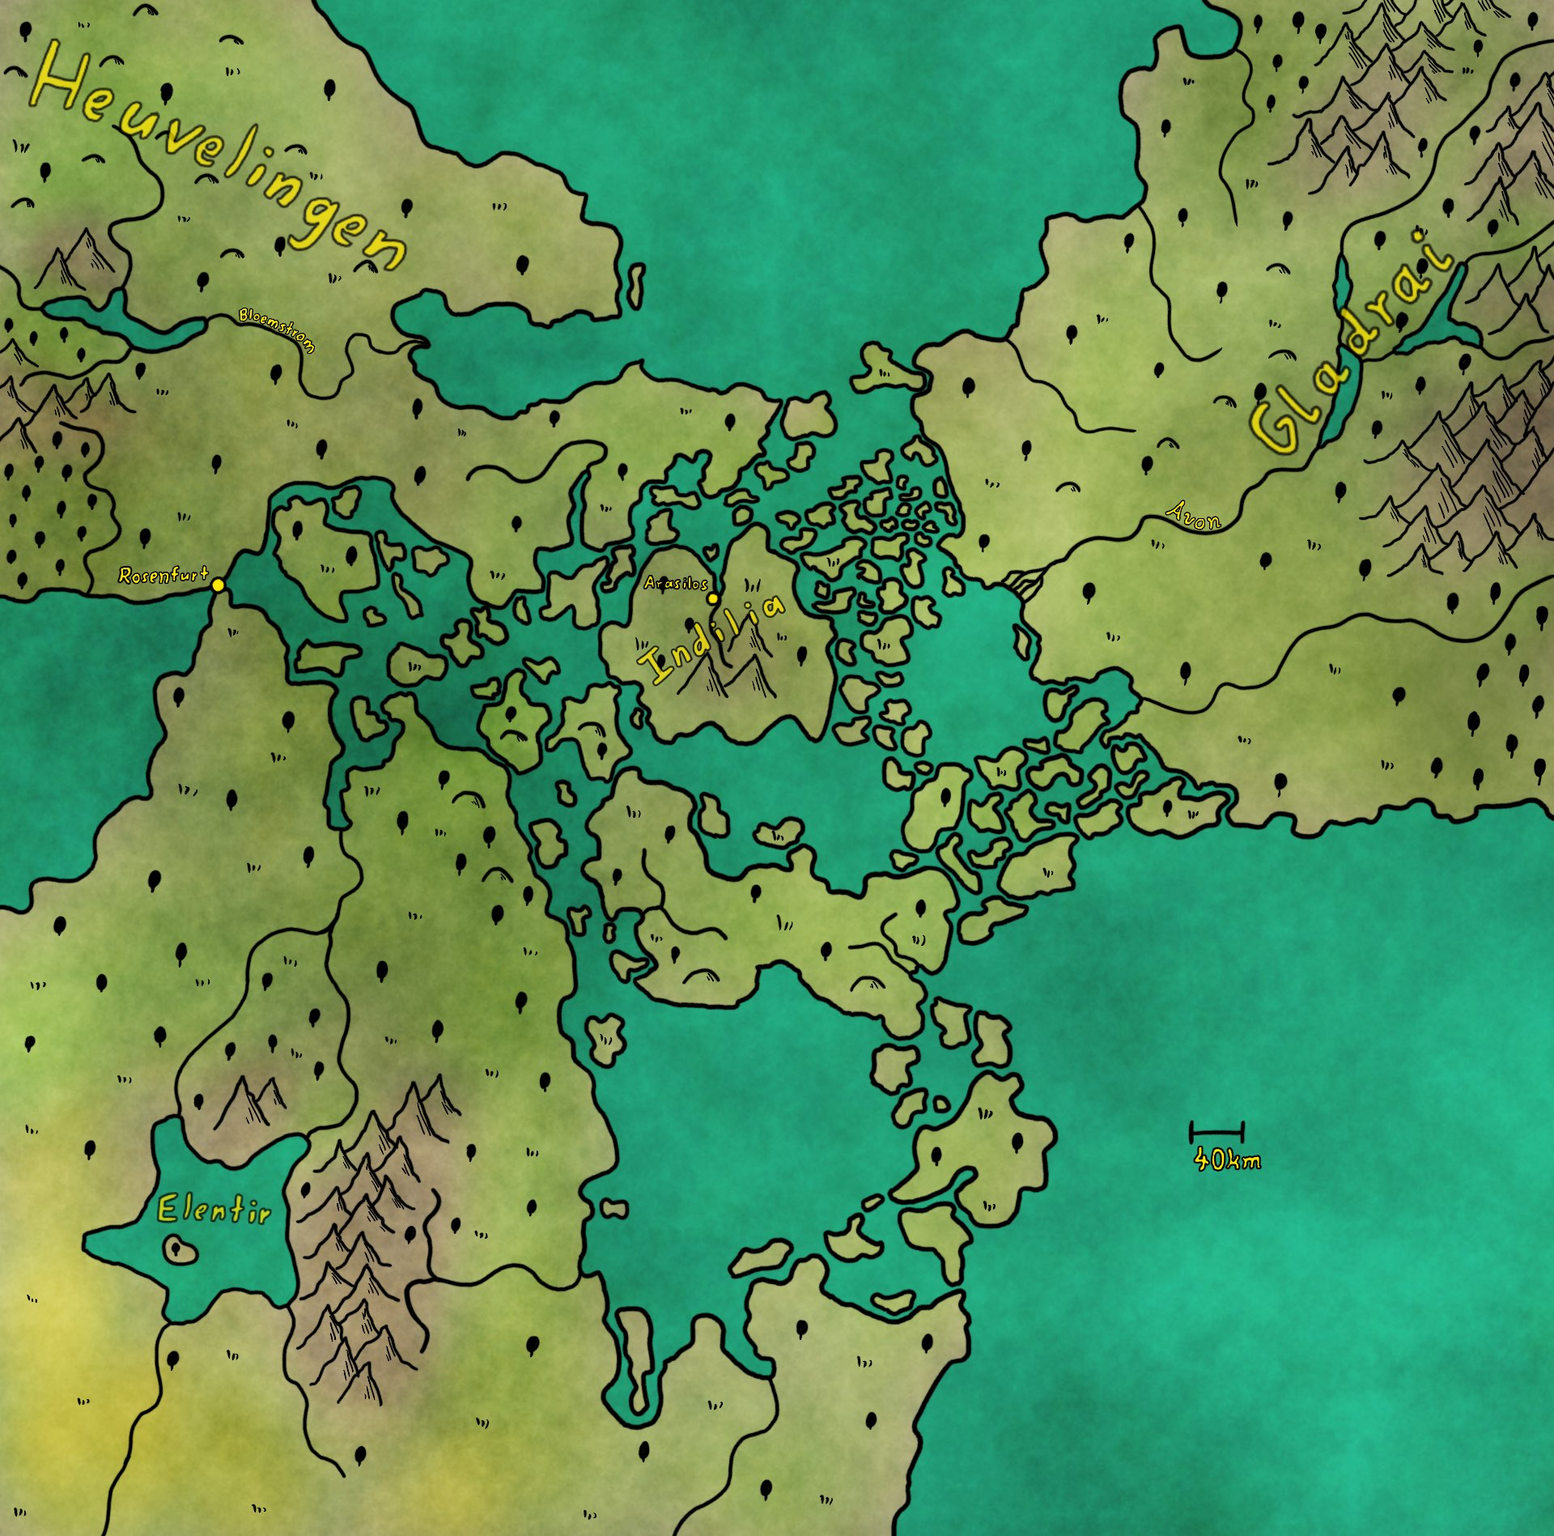
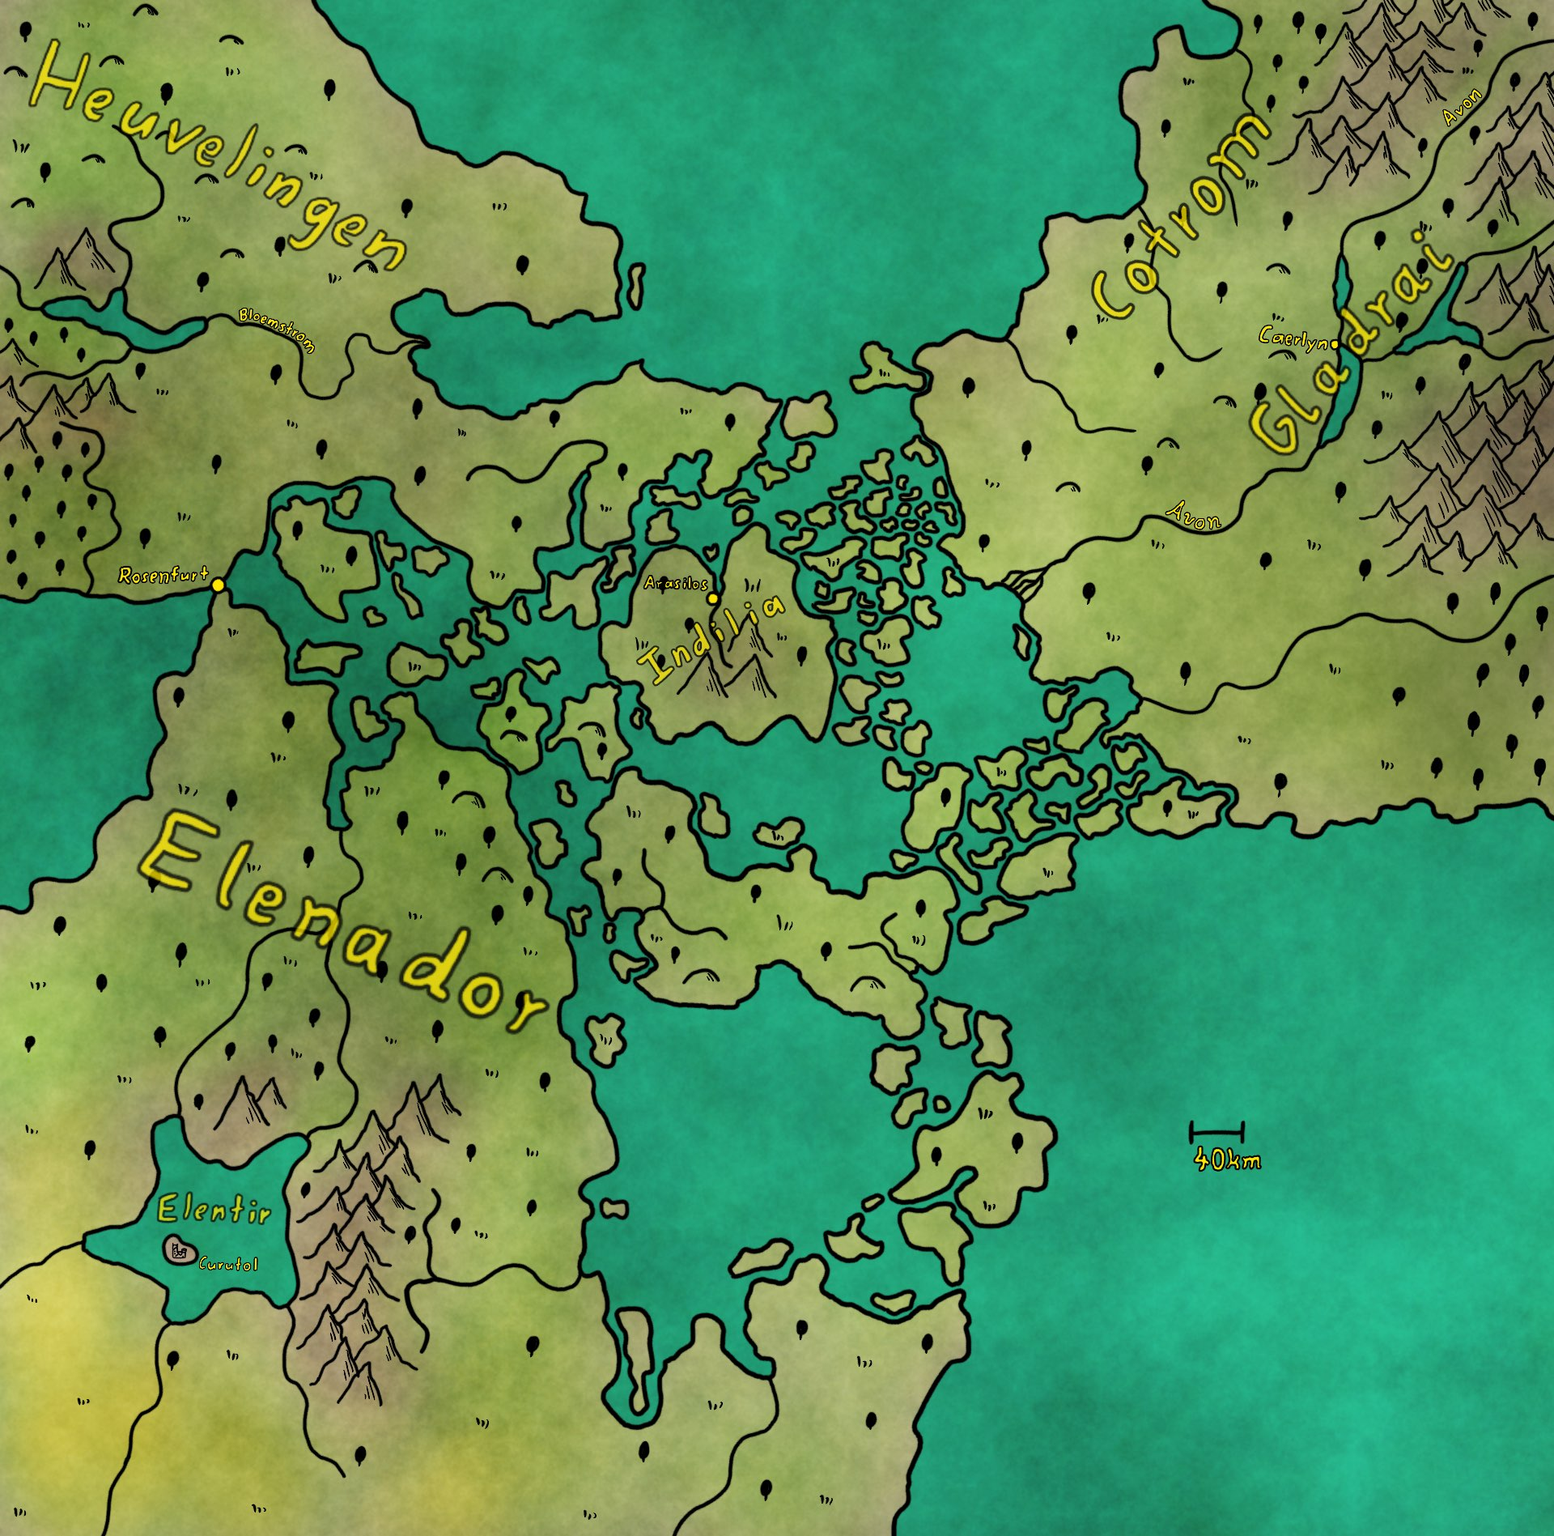
Update map and refactor homerules

diff --git a/dnd/homerules/index.html b/dnd/homerules/index.html
@@ -13,7 +13,7 @@
       
       
       
-      <link rel="icon" href="../assets/images/favicon.png">
+      <link rel="icon" href="../assets/favicon.png">
       <meta name="generator" content="mkdocs-1.6.0, mkdocs-material-9.5.26">
     
     
@@ -595,10 +595,10 @@
 <li>Tabaxi</li>
 <li>Tortle</li>
 </ul>
-<p>Diese Liste ist bei weitem nicht vollständig und soll mit der Zeit wachsen. "Mark of ..."-subraces dürfen nicht gewählt werden, da diese aus einem besonderen Modul stammen und deutlich stärker als andere subraces sind.</p>
-<p>Nicht auf dieser Liste aufgezählte races können eventuell nach Absprache gespielt werden, einfach fragen :)</p>
+<p>"Mark of ..."-subraces dürfen nicht gewählt werden, da diese aus einem besonderen Modul stammen und deutlich stärker als andere subraces sind.</p>
+<p>Diese Liste ist bei weitem nicht vollständig und soll mit der Zeit wachsen. Nicht auf dieser Liste aufgezählte races können eventuell nach Absprache gespielt werden, einfach fragen :)</p>
 <h3 id="charakterherkunft">Charakterherkunft</h3>
-<p>Auf den Seiten zu einzelnen Regionen steht häufig, welche races dort hauptsächlich angesiedelt sind. Das heißt allerdings nicht, dass andere races dort nicht auch existieren würden. Besonders in den größeren Städten kommt es zu viel Durchmischung. Ein Tabaxi in Gladrai ist vielleicht ungewöhnlich, kommt aber definitiv vor. Lasst euch also nicht in der Herkunft eures Charakters einschränken, aber macht euch trotzdem darüber Gedanken, wenn euer Charakter aus einer für ihn untypischen Region kommt. </p>
+<p>Auf den Seiten zu einzelnen Regionen steht häufig, welche races dort hauptsächlich angesiedelt sind. Das heißt allerdings nicht, dass andere races dort nicht auch existieren würden. Besonders in den größeren Städten kommt es zu viel Durchmischung. Lasst euch also nicht in der Herkunft eures Charakters einschränken, aber macht euch trotzdem darüber Gedanken, wenn euer Charakter aus einer für ihn untypischen Region kommt.</p>
 <h3 id="ability-scores-improvements">Ability scores improvements</h3>
 <p>Anstatt die von der race vorgegebenen ability score improvements zu verwenden, dürfen (a) +2, +1 oder (b) +1, +1, +1 auf verschiedene ability scores verteilt werden. Dabei gibt es folgende Ausnahmen:</p>
 <ul>
@@ -618,7 +618,7 @@
 <li>Sigil and the Outlands</li>
 </ul>
 <p>Diese sind meist an bestimmte vorgefertigte Abenteuer angepasst und passen schlecht in andere Settings.</p>
-<p>Backgrounds dürfen relativ flexibel angepasst werden, falls sie damit besser zum Charakter passen. Falls keiner der vorgefertigten backgrounds zum Charakter passt, kann in Absprache auch gerne ein custom background erstellt werden.</p>
+<p>Backgrounds dürfen relativ flexibel angepasst werden, falls sie damit besser zum Charakter passen. Falls keiner der vorgefertigten backgrounds zum Charakter passt, kann in Absprache gerne auch ein custom background erstellt werden.</p>
 <h3 id="feats">Feats</h3>
 <p>Feats aus folgenden Modulen dürfen <strong>nicht</strong> gewählt werden:</p>
 <ul>
@@ -629,7 +629,7 @@
 <li>Strixhaven: A Curriculum of Chaos</li>
 <li>Sigil and the Outlands</li>
 </ul>
-<p>Zusätzlich darf jeder Charakter bei der Charaktererstellung einen feat wählen, der keine Kampfvorteile gibt (ability score improvements zählen dafür nicht).</p>
+<p>Zusätzlich darf jeder Charakter bei der Charaktererstellung einen zusätzlichen feat wählen, der keine direkten Kampfvorteile gibt (ability score improvements zählen nicht als Kampfvorteil).</p>
 <h3 id="spells">Spells</h3>
 <p>Spells aus folgenden Modulen dürfen <strong>nicht</strong> gewählt werden:</p>
 <ul>
@@ -641,27 +641,33 @@
 <h2 id="zusatzliche-regeln">Zusätzliche Regeln</h2>
 <h4 id="flanking">Flanking</h4>
 <p>Statt advantage gibt flanking einen 1d4-Bonus auf den attack roll.</p>
-<p><em>Im Gegensatz zu den meisten anderen Möglichkeiten, advantage zu erhalten, welche oft mit gewissen Kosten verbunden sind (z.B spell slots, action economy, ...) ist flanking recht einfach, was den Wert einiger spells und class features reduziert.</em></p>
+<p class="comment"> Im Gegensatz zu den meisten anderen Möglichkeiten, advantage zu erhalten, welche oft mit gewissen Kosten verbunden sind (z.B spell slots, action economy, ...) ist flanking recht einfach, was den Wert einiger spells und class features reduziert. </p>
+
 <h4 id="falling-unconscious">Falling unconscious</h4>
 <p>Wenn ein Charakter auf 0 HP fällt, erhält er nach dem Kampf eine Stufe exhaustion (max. 1 pro Kampf). Allerdings werden failed death saving throws erst nach einer short rest zurückgesetzt.</p>
-<p><em>Damit wird auf 0 HP fallen mit gewissen Kosten und Risiko verbunden, es entstehen aber keine Szenarios, in denen es taktisch klüger ist, einen Verbündeten liegen zu lassen.</em></p>
+<p class="comment"> Damit wird auf 0 HP fallen mit gewissen Kosten und Risiko verbunden, es entstehen aber keine Szenarios, in denen es taktisch klüger ist, einen Verbündeten liegen zu lassen. </p>
+
 <h4 id="hp-on-levelup">HP on levelup</h4>
 <p>Bei levelups werden hit dice mit advantage gewürfelt.</p>
-<p><em>Das soll dafür sorgen, dass levelups häufiger zu brauchbaren HP-Steigerungen führen, ohne den Zufall komplett zu eleminieren.</em></p>
+<p class="comment"> Das soll dafür sorgen, dass levelups häufiger zu brauchbaren HP-Steigerungen führen, ohne den Zufall komplett zu eleminieren. </p>
+
 <h4 id="duplicate-proficiencies">Duplicate proficiencies</h4>
 <p>Wenn ein Charakter eine skill (oder tool) proficiency erhält, die er bereits besitzt, darf stattdessen eine andere skill (oder tool) proficiency gewählt werden. Die gleiche Regel gilt auch für expertise.</p>
-<p><em>Manche (sub)classes erhalten proficiencies als (sub)class feature. Da dies oft definierende Eigenschaften eines Charakters sind, macht es eigentlich oft Sinn, diese proficiencies bereits auf Level 1 zu wählen, was allerdings oft unklug wäre, da so eine proficiency "verschwendet" werden würde.</em></p>
+<p class="comment"> Manche (sub)classes erhalten proficiencies als (sub)class feature. Da dies oft definierende Eigenschaften eines Charakters sind, macht es eigentlich oft Sinn, diese proficiencies bereits auf Level 1 zu wählen, was allerdings oft unklug wäre, da so eine proficiency "verschwendet" werden würde. </p>
+
 <h4 id="duplicate-spells">Duplicate spells</h4>
 <p>Wenn ein Charakter per levelup Zugriff auf einen spell erhält, den er bereits von seiner class spell list gelernt hat, darf er einen neuen spell der gleichen spell list wählen.</p>
-<p><em>Ohne diese Regel würde z.B. ein necromancer wizard sich dagegen entscheiden, animate dead zu lernen, obwohl das so ziemlich der signature spell dieser spell class ist, da er den spell auf Level 6 umsonst erhält.</em></p>
+<p class="comment"> Ohne diese Regel würde z.B. ein necromancer wizard sich dagegen entscheiden, animate dead zu lernen, obwohl das so ziemlich der signature spell dieser spell class ist, da er den spell auf Level 6 umsonst erhält. </p>
+
 <h4 id="es-wird-auf-dem-tisch-gewurfelt">Es wird auf dem Tisch gewürfelt</h4>
 <p>Wenn ein Würfel beim würfeln vom Tisch fällt, wird er automatisch als 1 gewertet.</p>
 <h4 id="wild-magic-table">Wild magic table</h4>
 <p>Die Ergebnisse 11-12 und 35-36 des wild magic tables, welche Größe bzw. Alter des Charakters verändern, sind nicht permanent, sondern haben eine Dauer von 24 Stunden.</p>
-<p><em>Permanente Charakterveränderungen sollten nicht einfach so passieren und passen nicht wirklich mit den anderen Effekten des wild magic tables zusammen.</em></p>
+<p class="comment"> Permanente Charakterveränderungen sollten nicht einfach so passieren und passen nicht wirklich mit den anderen Effekten des wild magic tables zusammen. </p>
+
 <h4 id="healing-potions">Healing potions</h4>
 <p>Healing potions dürfen als bonus action getrunken werden. Wer eine healing potion als action trinkt, erhält automatisch die maximal mögliche Menge an Lebenspunkten.</p>
-<p><em>Healing potions werden so als Verbrauchsgegenstände etwas stärker.</em></p>
+<p class="comment"> Healing potions werden so als Verbrauchsgegenstände etwas stärker. </p>
 
 
 

diff --git a/dnd/world/floresia/index.html b/dnd/world/floresia/index.html
@@ -11,7 +11,7 @@
       
       
       
-      <link rel="icon" href="../../assets/images/favicon.png">
+      <link rel="icon" href="../../assets/favicon.png">
       <meta name="generator" content="mkdocs-1.6.0, mkdocs-material-9.5.26">
     
     
@@ -392,6 +392,15 @@
   
 </li>
         
+          <li class="md-nav__item">
+  <a href="#elenador" class="md-nav__link">
+    <span class="md-ellipsis">
+      Elenador
+    </span>
+  </a>
+  
+</li>
+        
       </ul>
     </nav>
   
@@ -437,16 +446,20 @@
   <image width="1920" height="1897" href="../../images/Floresia.png">
     <title>Floresia</title>
   </image>
+  <a href="../orondor/#cotrom"><path d="M 1243.00,417.67 C 1243.00,417.67 1264.33,469.67 1264.33,469.67 1264.33,469.67 1295.00,481.67 1295.00,481.67 1295.00,481.67 1312.67,502.00 1312.67,502.00 1312.67,502.00 1325.67,522.67 1325.67,522.67 1325.67,522.67 1336.00,537.33 1336.00,537.33 1336.00,537.33 1363.33,535.00 1363.33,535.00 1363.33,535.00 1416.67,587.67 1416.67,587.67 1416.67,587.67 1522.00,498.67 1522.00,498.67 1522.00,498.67 1579.33,438.33 1579.33,438.33 1579.33,438.33 1597.00,253.33 1597.00,253.33 1597.00,253.33 1780.00,-0.67 1780.00,-0.67 1780.00,-0.67 1488.33,-2.33 1488.33,-2.33 1488.33,-2.33 1497.67,14.00 1497.67,14.00 1497.67,14.00 1526.00,28.00 1526.00,28.00 1526.00,28.00 1516.67,60.33 1516.67,60.33 1516.67,60.33 1476.33,61.67 1476.33,61.67 1476.33,61.67 1464.67,27.33 1463.67,26.33 1462.67,25.33 1420.00,41.00 1420.00,41.00 1420.00,41.00 1419.67,78.67 1419.67,78.67 1419.67,78.67 1388.33,84.00 1388.33,84.00 1388.33,84.00 1379.67,114.67 1379.67,114.67 1379.67,114.67 1381.67,146.33 1381.67,146.33 1381.67,146.33 1399.33,161.00 1399.33,161.00 1399.33,161.00 1397.00,207.67 1397.33,207.67 1397.67,207.67 1410.00,233.33 1410.00,233.33 1410.00,233.33 1385.33,260.67 1385.33,260.67 1385.33,260.67 1289.33,260.67 1289.33,260.67 1289.33,260.67 1280.00,296.00 1280.00,296.00 1280.00,296.00 1286.33,335.00 1286.33,335.00 1286.33,335.00 1259.67,352.67 1259.67,352.67 1259.67,352.67 1243.00,417.67 1243.00,417.67 Z" opacity="0"><title>Cotrom</title> </path></a>
   <a href="../orondor/#gladrai"><path d="M1414,584 L1561,436 L1592,226 L1766,0 L1920,0 L1920,484 L1730,581 L1710,661 L1531,702 Z" opacity="0"><title>Gladrai</title> </path></a>
   <a href="../melanor/#heuvelingen"><path d="M0,0 L389,0 L586,199 L626,177 L731,224 L804,324 L791,390 L535,428 L414,496 L366,489 L366,423 L246,406 L173,417 L0,372 Z" opacity="0"><title>Heuvelingen</title> </path></a>
   <a href="./#rosenfurt"><path d="M142,692 L284,692 L284,736 L142,736 Z" opacity="0"><title>Rosenfurt</title> </path></a>
   <a href="./#arasilos"><path d="M789,707 L892,707 L892,748 L789,748 Z" opacity="0"><title>Arasilos</title> </path></a>
+  <a href="./#elenador"><path d="M -3.67,1120.00 C -3.67,1120.00 33.00,1126.50 33.00,1126.50 33.00,1126.50 39.50,1078.00 39.50,1078.00 39.50,1078.00 90.00,1084.50 90.00,1084.50 90.00,1084.50 114.50,1058.00 114.50,1059.00 114.50,1060.00 113.50,1023.50 113.50,1023.50 113.50,1023.50 159.00,981.50 159.00,980.00 159.00,978.50 179.50,977.00 179.50,977.00 179.50,977.00 178.50,952.50 178.50,952.50 178.50,952.50 198.50,909.00 198.50,908.50 198.50,908.00 186.50,859.50 186.50,859.50 186.50,859.50 194.50,831.50 194.50,831.50 194.50,831.50 216.00,826.00 216.00,826.00 216.00,826.00 229.50,825.50 229.50,825.50 229.50,825.50 254.50,766.00 254.50,766.00 254.50,766.00 258.00,736.00 258.00,736.00 258.00,736.00 290.50,736.00 290.50,736.00 290.50,736.00 288.50,745.00 288.50,745.00 288.50,745.00 323.50,749.00 323.50,749.00 323.50,749.00 360.00,799.50 360.00,799.50 360.00,799.50 360.00,842.50 360.00,842.50 360.00,842.50 411.00,844.00 411.00,844.00 411.00,844.00 419.50,853.00 419.50,853.00 419.50,853.00 495.00,853.50 495.00,853.50 495.00,853.50 515.50,854.00 515.50,854.00 515.50,854.00 538.00,898.50 538.00,898.50 538.00,898.50 597.00,922.00 597.00,922.00 597.00,922.00 637.00,957.00 637.00,957.00 637.00,957.00 657.50,1039.00 657.50,1039.00 657.50,1039.00 667.00,1077.00 667.00,1077.00 667.00,1077.00 687.00,1099.50 687.00,1099.50 687.00,1099.50 710.50,1165.50 710.50,1165.50 710.50,1165.50 718.00,1220.50 718.00,1220.50 718.00,1220.50 720.67,1298.00 720.67,1298.00 720.67,1298.00 748.00,1357.33 748.00,1357.33 748.00,1357.33 771.33,1430.67 771.33,1430.67 771.33,1430.67 735.33,1470.67 735.33,1470.67 735.33,1470.67 743.33,1508.67 743.33,1508.67 743.33,1508.67 725.33,1564.00 725.33,1564.00 725.33,1564.00 692.00,1595.33 692.00,1595.33 692.00,1595.33 643.33,1566.00 643.33,1566.00 643.33,1566.00 584.67,1588.67 584.67,1588.67 584.67,1588.67 537.33,1580.67 537.33,1580.67 537.33,1580.67 462.67,1547.33 462.67,1547.33 462.67,1547.33 480.00,1437.33 480.00,1437.33 480.00,1437.33 362.67,1393.33 362.67,1393.33 362.67,1393.33 293.33,1429.33 293.33,1429.33 293.33,1429.33 252.67,1418.67 252.67,1418.67 252.67,1418.67 228.67,1370.67 228.67,1370.67 228.67,1370.67 180.00,1382.00 180.00,1382.00 180.00,1382.00 -3.00,1394.00 -3.00,1394.00 -3.00,1394.00 -3.67,1120.00 -3.67,1120.00 Z" opacity="0"><title>Elenador</title> </path></a>
 </svg></p>
 <p>Der Kern von Floresia liegt im Floresianischen Meer, in welchem sich unzählige kleine, sowie ein paar wenige größere Inseln befinden. Auf einer dieser Inseln liegt die Stadt Arasilos, der Sitz des Kaisers von Floresia. Ebenso werden einige Teile der umliegenden Kontinente werden zu Floresia gezählt, auch wenn das Kaiserreich in den meisten dieser Gebiete seinen Einfluss verloren hat. Auf <a href="../orondor/">Orondor</a> ist dies lediglich die Küste des Floresianischen Meeres, auf <a href="../elmenda/">Elmenda</a> gehört die gesamte Region bis zum Elentir zu Floresia und auf <a href="../melanor/">Melanor</a> die Halbinsel Talata und die Region südlich des Bloemstrom.</p>
 <h3 id="arasilos">Arasilos</h3>
 <p>Arasilos liegt auf der Insel Indilia, einer der größten Inseln Floresias, und ist die Hauptstadt des Kaiserreichs Floresia.</p>
 <h3 id="rosenfurt">Rosenfurt</h3>
 <p>Rosenfurt liegt im Osten, wo sich <a href="../melanor/">Melanor</a> und <a href="../elmenda/">Elmenda</a> nahezu berühren. Teile der Stadt sind auf Wasser zwischen den Kontinenten gebaut  und durch Brücken verbunden. Die Durchquerung der Stadt ist für Schiffe nur über einige wenige Kanäle möglich.</p>
+<h3 id="elenador">Elenador</h3>
+<p>Elenador bezeichnet den auf Elmenda befindlichen Teil Floresias, welcher bis an den See Elentir heranreicht. Es ist größtenteils flach und von vielen Feldern und kleinen Wäldern bedeckt. Quer durch Elenador fließt der Fluss Elen.</p>
 <h2 id="volker">Völker</h2>
 <p>Floresia wird hauptsächlich von Menschen und Elfen bewohnt. Aufgrund der zentralen Lage sind hier jedoch quasi alle Völker der bekannten Welt auffindbar, besonders in den größeren Städten wie Rosenfurt.</p>
 <h2 id="politik">Politik</h2>

diff --git a/dnd/world/orondor/index.html b/dnd/world/orondor/index.html
@@ -11,7 +11,7 @@
       
       
       
-      <link rel="icon" href="../../assets/images/favicon.png">
+      <link rel="icon" href="../../assets/favicon.png">
       <meta name="generator" content="mkdocs-1.6.0, mkdocs-material-9.5.26">
     
     
@@ -374,6 +374,15 @@
 </li>
       
         <li class="md-nav__item">
+  <a href="#cotrom" class="md-nav__link">
+    <span class="md-ellipsis">
+      Cotrom
+    </span>
+  </a>
+  
+</li>
+      
+        <li class="md-nav__item">
   <a href="#bakkeland" class="md-nav__link">
     <span class="md-ellipsis">
       Bakkeland
@@ -399,11 +408,13 @@
 
 <h1 id="orondor">Orondor</h1>
 <h2 id="gladrai">Gladrai</h2>
-<p>Gladrai bezeichnet die Region nordöstlich Floresias, welche entlang des Flusses Avon und dessen Zubringerflüsse liegt. Nach Osten und Norden ist es durch das große Gebirge von Orondor begrenzt, welches hier als Drachengebirge bezeichnet wird.</p>
-<p>Gladrai ist hauptsächlich von Menschen bewohnt, aber auch Zwerge, Gnome und Halblinge sind hier recht verbreitet.</p>
+<p>Gladrai bezeichnet die Region nordöstlich <a href="../floresia/">Floresias</a>, welche entlang des Flusses Avon und dessen Zubringerflüssen liegt. Nach Osten und Norden ist es durch das große Gebirge von Orondor begrenzt, welches hier als Drachengebirge bezeichnet wird.</p>
+<p>Gladrai wird hauptsächlich von Menschen bewohnt, aber auch Zwerge, Gnome und Halblinge sind hier recht verbreitet.</p>
 <p>Händler kommen einigermaßen oft durch die Region, um die wenigen verbliebenen Zwergenstädte entlang des oberen Avon zu erreichen, allerdings wird die Region in letzter Zeit immer häufiger durch Goblins unsicher gemacht, und auch die Drachen aus dem Gebirge im Osten stellen eine ständige Bedrohung dar.</p>
+<h2 id="cotrom">Cotrom</h2>
+<p>Entlang der Küste im Westen Gladrais befindet sich Cotrom, ein flaches Land, das einst von den Zwergen aus den Bergen landwirtschaftlich genutzt wurde. Mit der Zeit haben sich dort immer mehr Menschen angesiedelt, welche nun die Mehrheit in der Region darstellen.</p>
 <h2 id="bakkeland">Bakkeland</h2>
-<p>Bakkeland ist eine Halbinsel an der Westküste Orondors. Es liegt auf halber Strecke zwischen Floresia und Lysnatsland und beherbergt eine der wenigen verbliebenen Mithrilminen. Aufgrund des heiß begehrten Mithrils wird der Handel regelmäßig von Piraten aus den Norden Bakkelands heimgesucht. Über Land ist die Region nur schwer zu erreichen, da die Berge nördlich und südlich von Bakkeland bis an das Meer heranreichen.</p>
+<p>Bakkeland ist eine Halbinsel an der Westküste Orondors. Es liegt auf halber Strecke zwischen Floresia und Lysnatsland im hohen Norden und beherbergt eine der wenigen verbliebenen Mithrilminen. Aufgrund des heiß begehrten Mithrils wird der Handel regelmäßig von Piraten aus den Norden Bakkelands heimgesucht. Über Land ist die Region nur schwer zu erreichen, da die Berge nördlich und südlich von Bakkeland bis an das Meer heranreichen.</p>
 
 
 

diff --git a/dnd/world/index.html b/dnd/world/index.html
@@ -15,7 +15,7 @@
         <link rel="next" href="../homerules/">
       
       
-      <link rel="icon" href="../assets/images/favicon.png">
+      <link rel="icon" href="../assets/favicon.png">
       <meta name="generator" content="mkdocs-1.6.0, mkdocs-material-9.5.26">
     
     

diff --git a/dnd/index.html b/dnd/index.html
@@ -13,7 +13,7 @@
         <link rel="next" href="world/">
       
       
-      <link rel="icon" href="assets/images/favicon.png">
+      <link rel="icon" href="assets/favicon.png">
       <meta name="generator" content="mkdocs-1.6.0, mkdocs-material-9.5.26">
     
     

diff --git a/dnd/world/elmenda/index.html b/dnd/world/elmenda/index.html
@@ -11,7 +11,7 @@
       
       
       
-      <link rel="icon" href="../../assets/images/favicon.png">
+      <link rel="icon" href="../../assets/favicon.png">
       <meta name="generator" content="mkdocs-1.6.0, mkdocs-material-9.5.26">
     
     

diff --git a/dnd/world/melanor/index.html b/dnd/world/melanor/index.html
@@ -11,7 +11,7 @@
       
       
       
-      <link rel="icon" href="../../assets/images/favicon.png">
+      <link rel="icon" href="../../assets/favicon.png">
       <meta name="generator" content="mkdocs-1.6.0, mkdocs-material-9.5.26">
     
     

diff --git a/dnd/404.html b/dnd/404.html
@@ -11,7 +11,7 @@
       
       
       
-      <link rel="icon" href="/assets/images/favicon.png">
+      <link rel="icon" href="/assets/favicon.png">
       <meta name="generator" content="mkdocs-1.6.0, mkdocs-material-9.5.26">
     
     

diff --git a/dnd/assets/custom.css b/dnd/assets/custom.css
@@ -7,3 +7,8 @@
       display: none;
   }
 }
+
+p.comment {
+    color: gray;
+    font-style: italic;
+}
